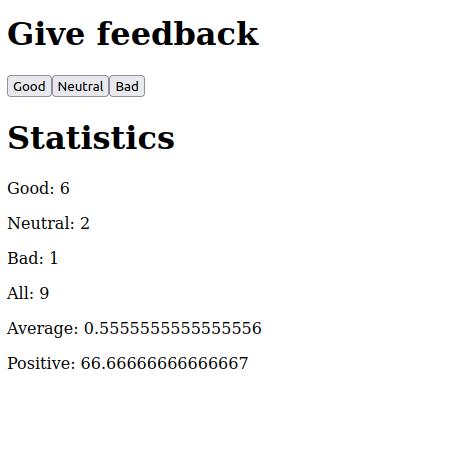
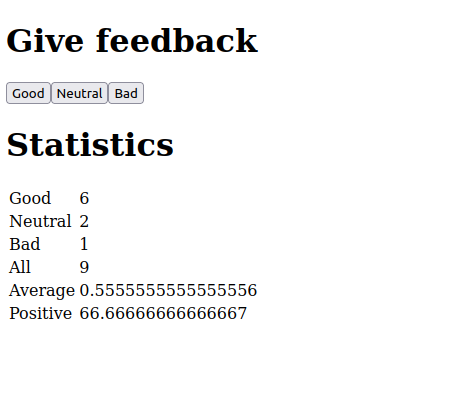
Add exercise 1.11 step 6

diff --git a/part1/unicafe/src/containers/Statistics.js b/part1/unicafe/src/containers/Statistics.js
@@ -16,12 +16,16 @@ const Statistics = ({ good, neutral, bad }) => {
     <div>
       <h1>Statistics</h1>
 
-      <StatisticLine text={"Good"} value={good} />
-      <StatisticLine text={"Neutral"} value={neutral} />
-      <StatisticLine text={"Bad"} value={bad} />
-      <StatisticLine text={"All"} value={total} />
-      <StatisticLine text={"Average"} value={average} />
-      <StatisticLine text={"Positive"} value={positive} />
+      <table>
+        <tbody>
+          <StatisticLine text={"Good"} value={good} />
+          <StatisticLine text={"Neutral"} value={neutral} />
+          <StatisticLine text={"Bad"} value={bad} />
+          <StatisticLine text={"All"} value={total} />
+          <StatisticLine text={"Average"} value={average} />
+          <StatisticLine text={"Positive"} value={positive} />
+        </tbody>
+      </table>
     </div>
   )
 }

diff --git a/part1/unicafe/src/components/StatisticLine.js b/part1/unicafe/src/components/StatisticLine.js
@@ -2,7 +2,10 @@ import React from 'react';
 
 const StatisticLine = ({ text, value }) => {
   return (
-    <p>{text}: {value}</p>
+    <tr>
+      <td>{text}</td>
+      <td>{value}</td>
+    </tr>
   )
 }
 
